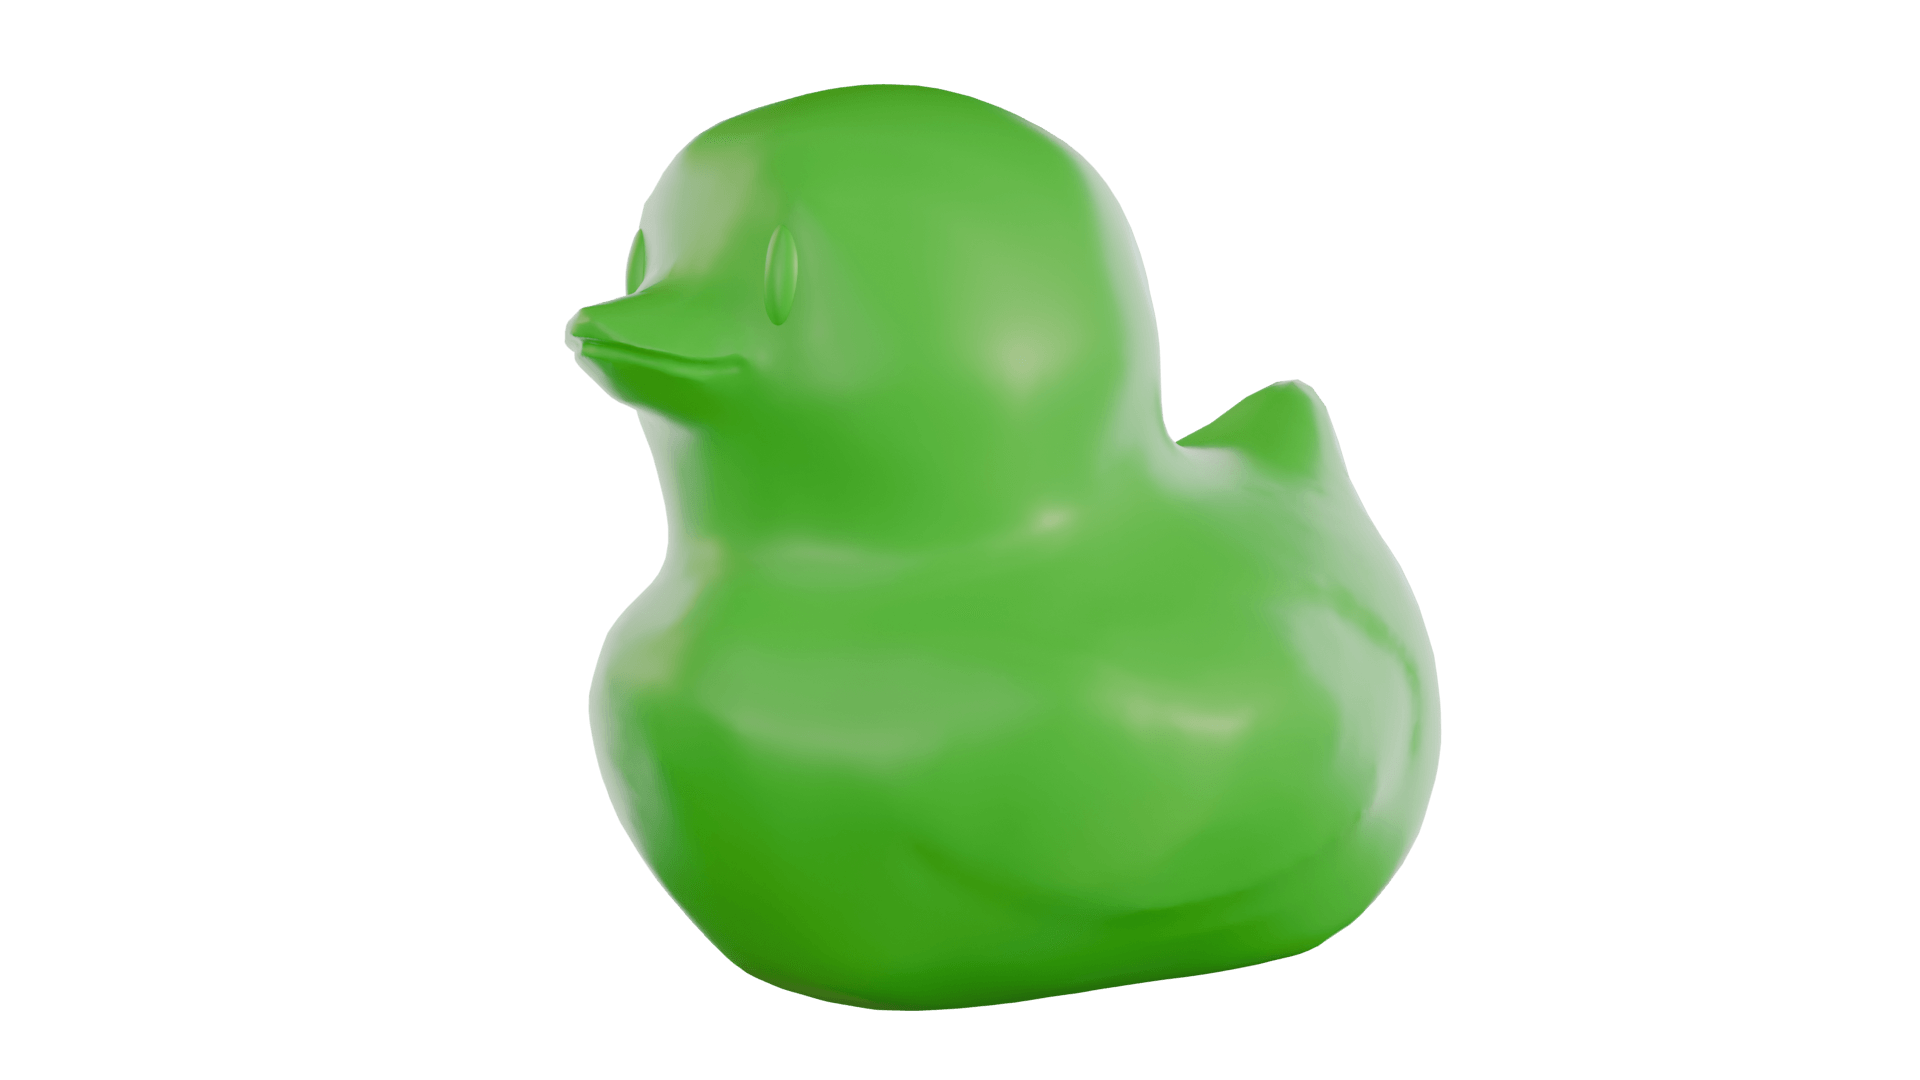
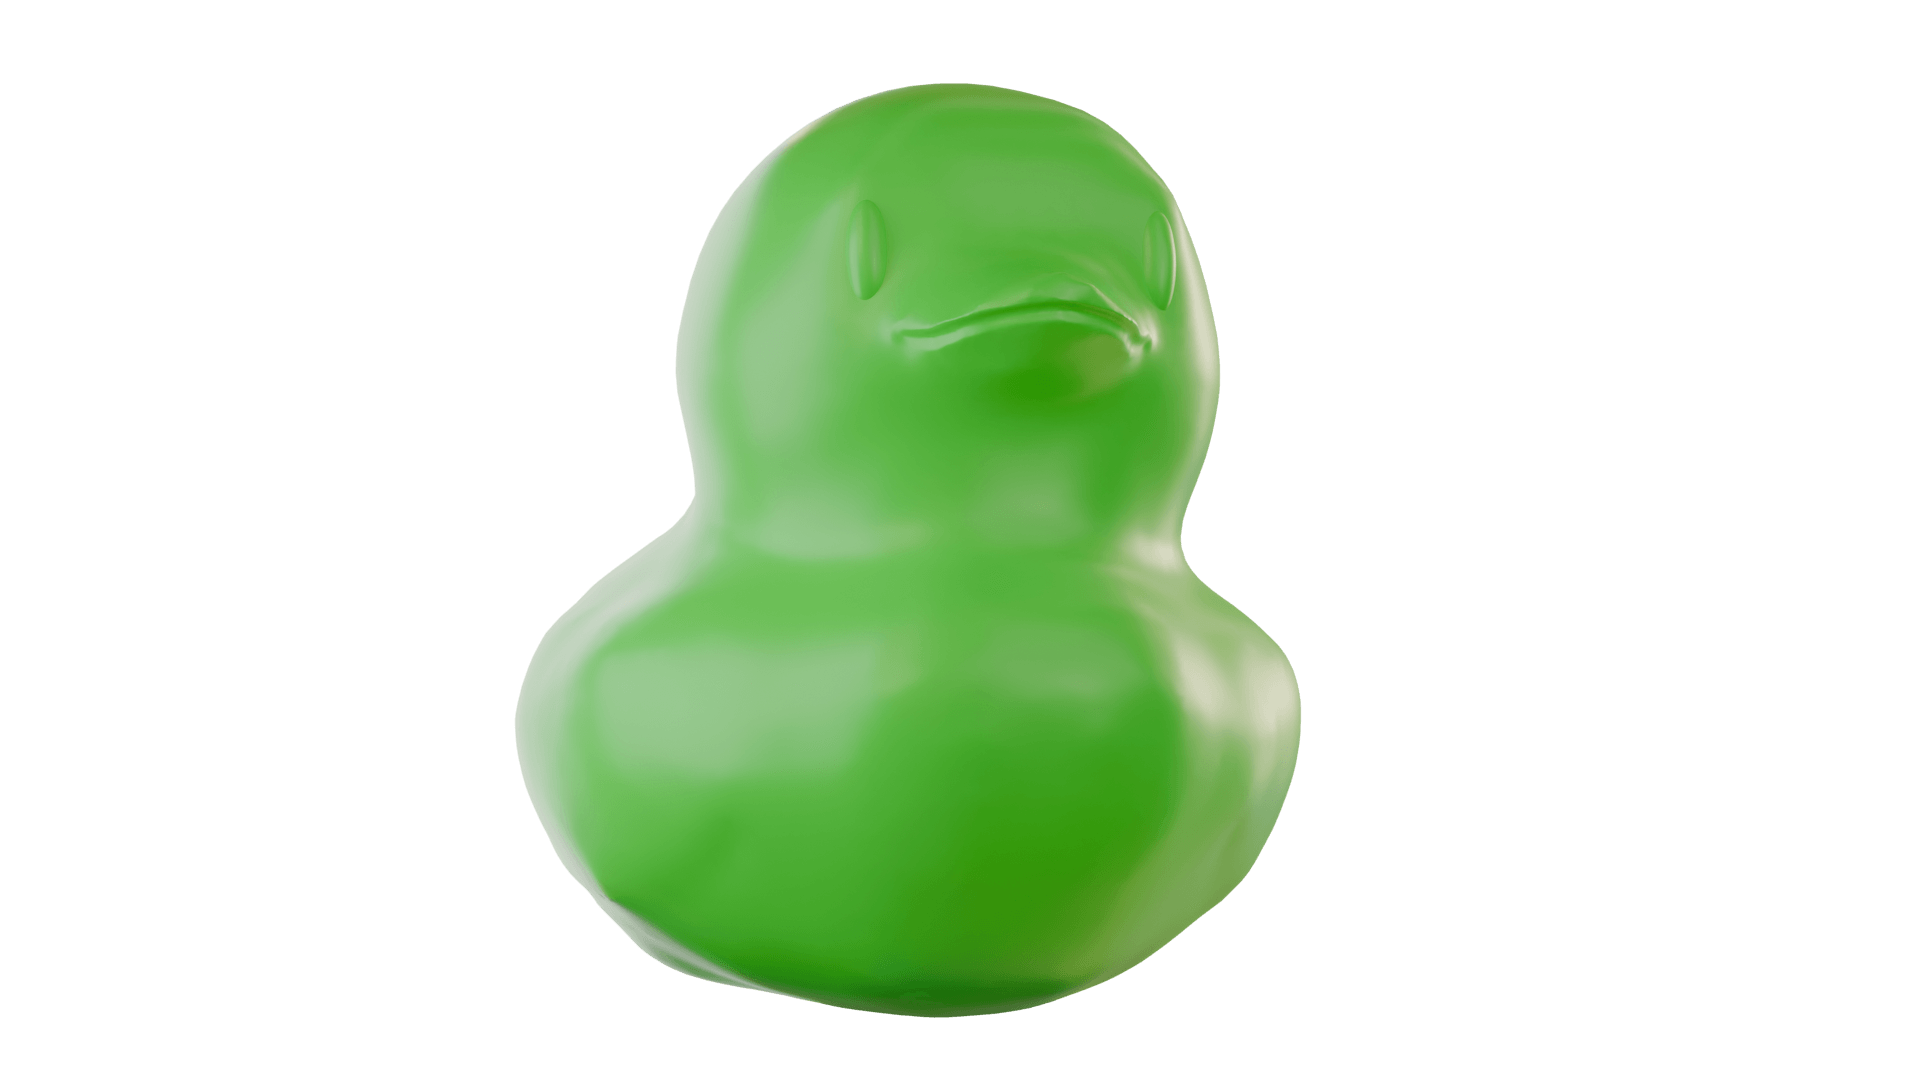
add bootstrap homepage

Changed region(s): [[0.25, 0.0611, 0.75, 0.9472]]

diff --git a/public/css/style.css b/public/css/style.css
@@ -1,0 +1,16 @@
+body {
+    background-color: #D3D3D3;
+}
+
+#homeCarousel .carousel-item img {
+  max-height: 350px;
+  width: auto;
+  height: auto;
+  object-fit: contain;   /* <-- no cropping */
+  margin: 0 auto;        /* center horizontally */
+}
+
+.carousel-control-prev-icon,
+.carousel-control-next-icon {
+  filter: invert(1) brightness(0);
+}
